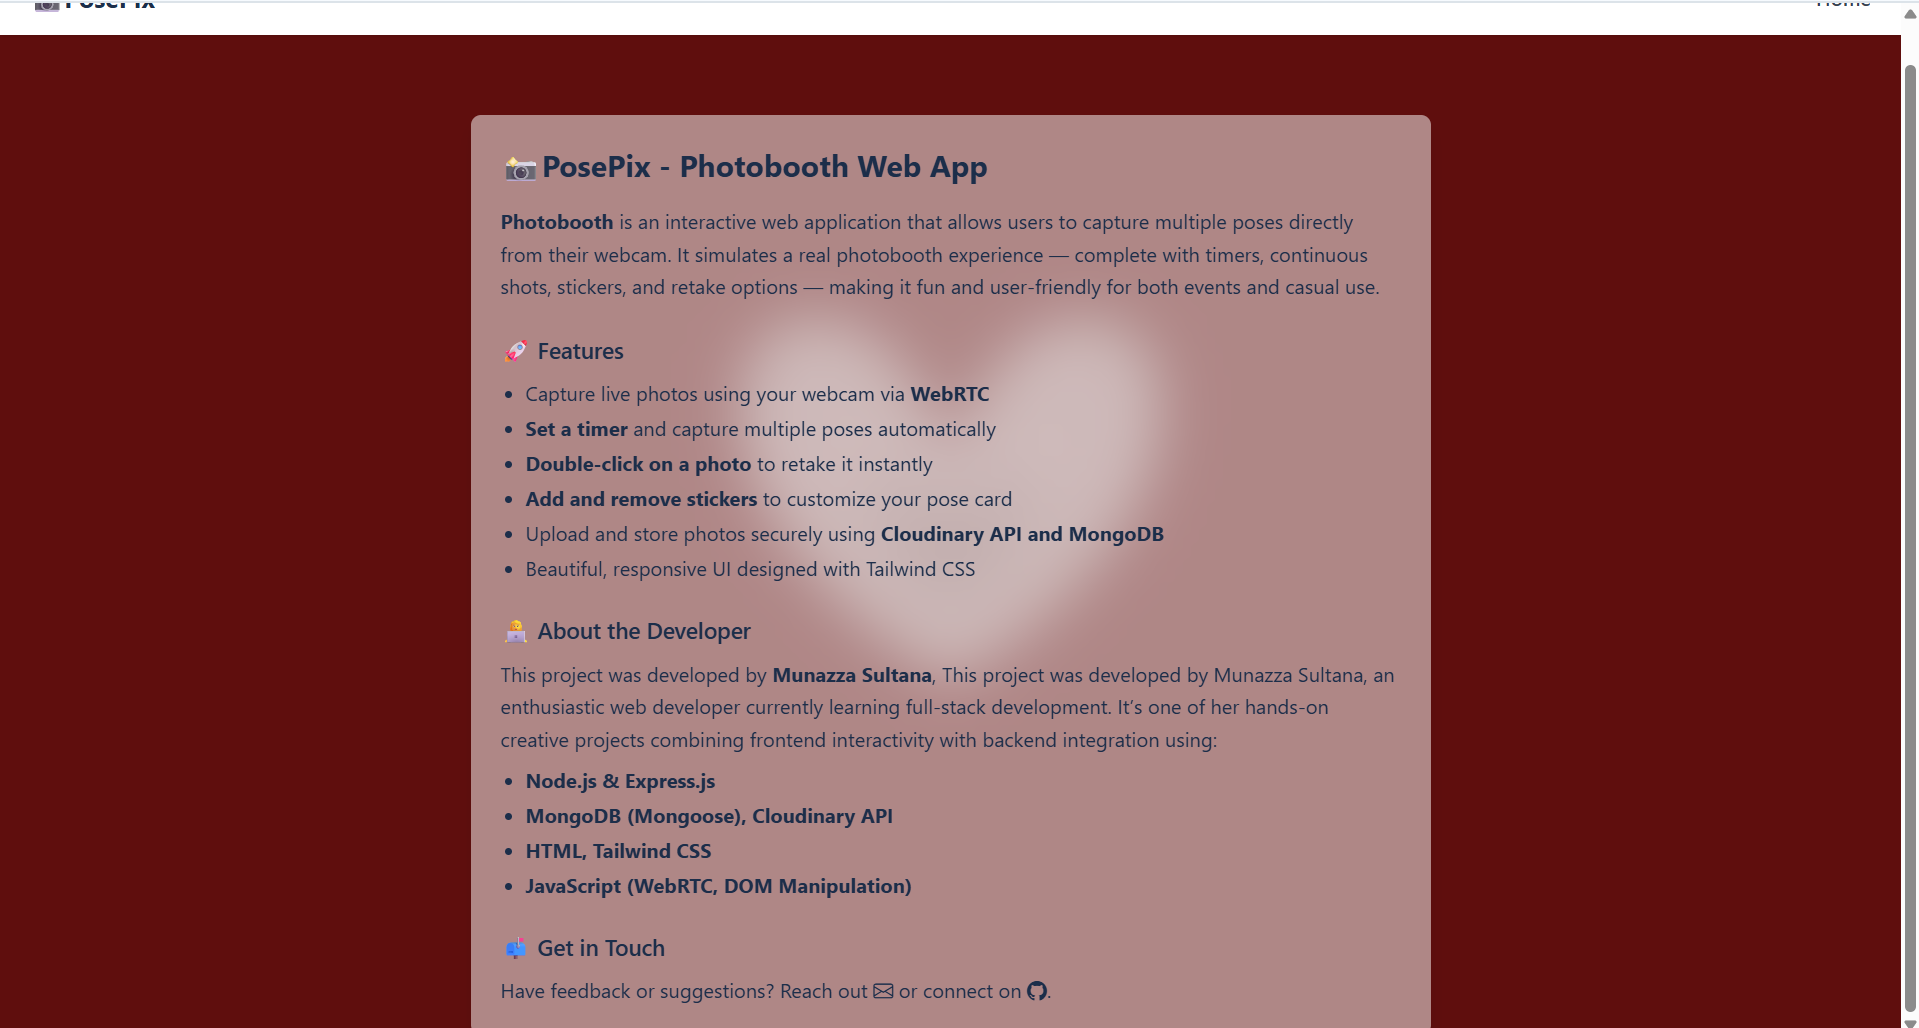
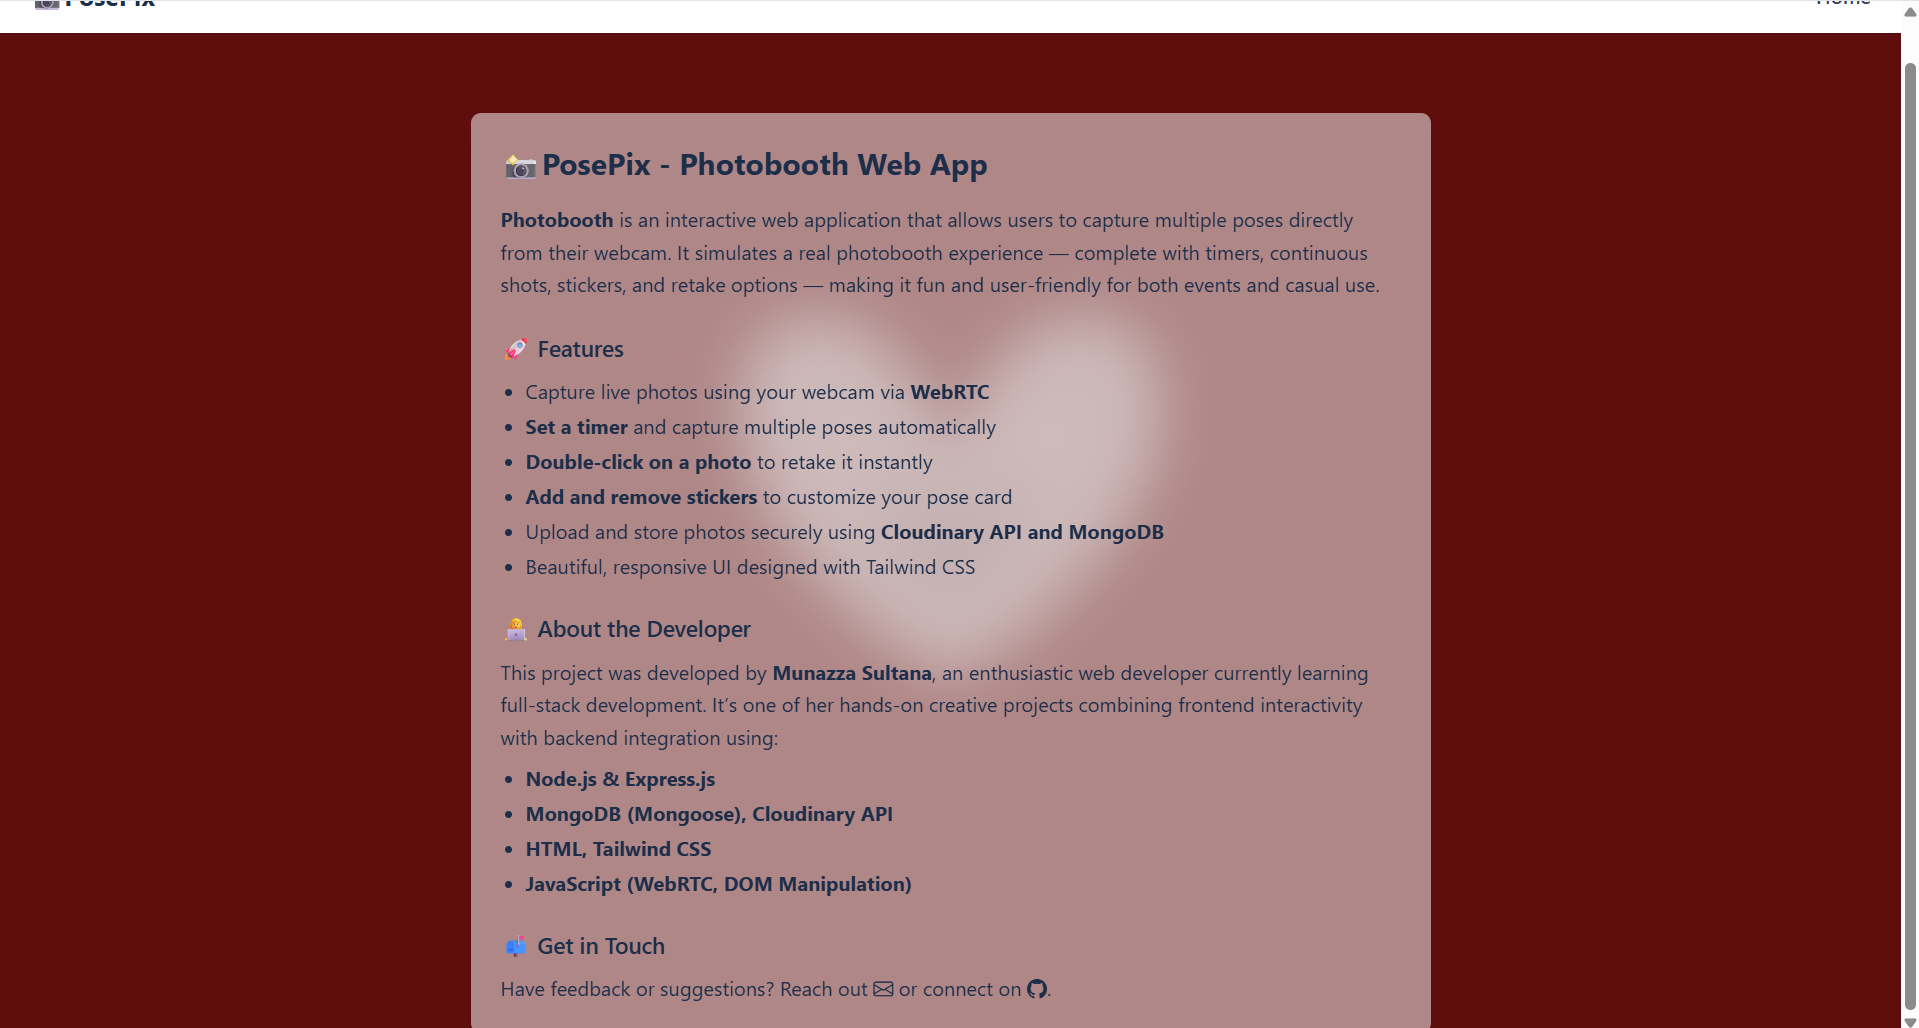
sc edit

diff --git a/public/about.html b/public/about.html
@@ -39,7 +39,7 @@
 
     <h2 class="text-lg font-semibold mt-6 mb-2">👩💻 About the Developer</h2>
     <p class="text-base leading-relaxed">
-      This project was developed by <strong>Munazza Sultana</strong>, This project was developed by Munazza Sultana, an enthusiastic web developer currently learning full-stack development. It’s one of her hands-on creative projects combining frontend interactivity with backend integration using:
+      This project was developed by <strong>Munazza Sultana</strong>, an enthusiastic web developer currently learning full-stack development. It’s one of her hands-on creative projects combining frontend interactivity with backend integration using:
     </p>
     <ul class="list-disc pl-5 font-bold text-base mt-2 space-y-1">
       <li>Node.js & Express.js</li>
